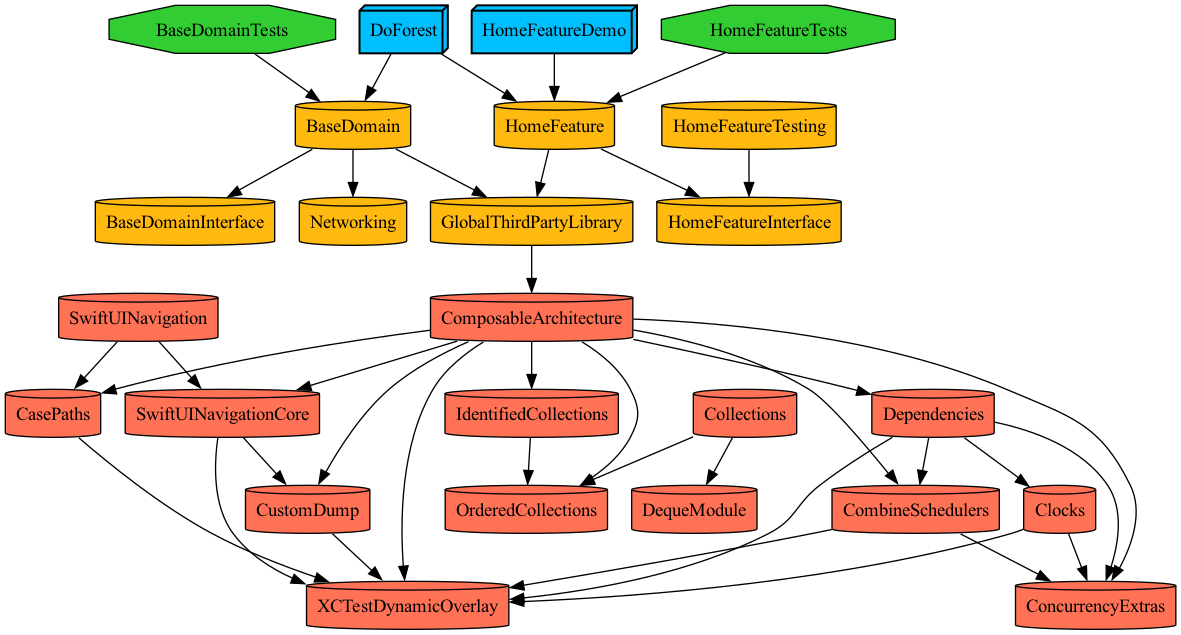
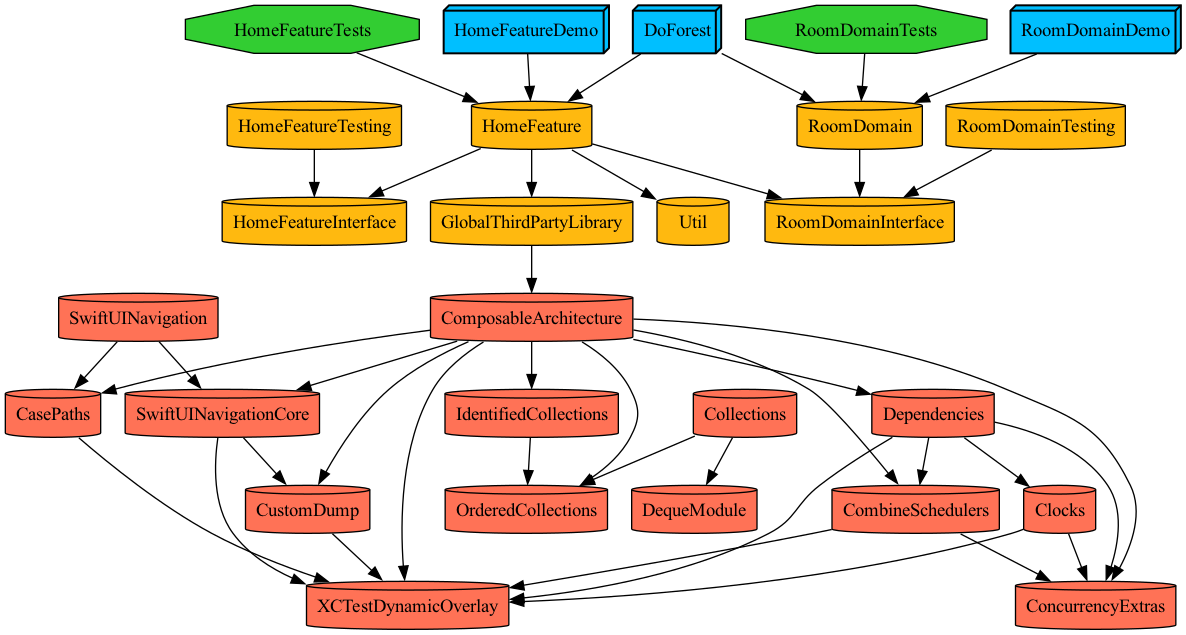
[#1] 누락된 파일 추가

diff --git a/Projects/Feature/HomeFeature/Sources/HomeView.swift b/Projects/Feature/HomeFeature/Sources/HomeView.swift
@@ -8,6 +8,9 @@
 
 import SwiftUI
 import ComposableArchitecture
+import RoomDomainInterface
+import Util
+import YDS_SwiftUI
 
 public struct HomeView: View {
     public init(store: StoreOf<Home>) {
@@ -16,13 +19,33 @@ public struct HomeView: View {
     public let store: StoreOf<Home>
     public var body: some View {
         WithViewStore(self.store, observe: { $0 }) { viewStore in
-            VStack {
-                Text("count : \(viewStore.count)")
-                Button(action: {
-                    viewStore.send(.buttonTapped)
-                }, label: {
-                    Text("Button")
-                })
+            VStack(alignment: .leading, spacing: 20) {
+                ForEach(viewStore.rooms, id: \.id) { room in
+                    HStack(spacing: 16) {
+                        Text(room.icon)
+                            .font(.largeTitle)
+                            .frame(minWidth: 64, minHeight: 64)
+                            .background {
+                                Color.white
+                                    .clipShape(Circle())
+                            }
+                        VStack(alignment: .leading, spacing: 8) {
+                            Text(room.title)
+                                .font(YDSFont.title3)
+                            Text(room.subTitle)
+                                .font(YDSFont.body2)
+                        }
+                        Spacer()
+                    }
+                    .foregroundStyle(Color.white)
+                    .padding(26)
+                    .frame(maxWidth: .infinity, minHeight: 107)
+                    .background {
+                        RoundedRectangle(cornerRadius: 30, style: .continuous)
+                            .fill(Color(hex: room.backgroundHexColor))
+                    }
+                    .padding(.horizontal)
+                }
             }
         }
     }
@@ -41,10 +64,8 @@ struct Home_Previews: PreviewProvider {
 public struct Home: Reducer {
     public init() {}
     public struct State: Equatable {
-        public init(count: Int = 0) {
-            self.count = count
-        }
-        var count = 0
+        public init() {}
+        var rooms: [RoomModel] = RoomModel.mockData
     }
     public enum Action: Equatable {
         case buttonTapped
@@ -53,7 +74,6 @@ public struct Home: Reducer {
     public func reduce(into state: inout State, action: Action) -> Effect<Action> {
         switch action {
         case .buttonTapped:
-            state.count += 1
             return .none
         }
     }

diff --git a/Projects/Domain/RoomDomain/Interface/RoomModel.swift b/Projects/Domain/RoomDomain/Interface/RoomModel.swift
@@ -1,0 +1,49 @@
+import Foundation
+
+public struct RoomModel: Equatable {
+    public let id: UUID
+    public let title: String
+    public let subTitle: String
+    public let icon: String
+    public let backgroundHexColor: UInt
+}
+
+public extension RoomModel {
+    static let mockData: [Self] = [
+        .init(
+            id: UUID(),
+            title: "망한 잔디밭 살리기",
+            subTitle: "1일 1잔디심기 프로젝트.\n삭막한 잔디밭 살려.",
+            icon: "🌿",
+            backgroundHexColor: 0x72C381
+        ),
+        .init(
+            id: UUID(),
+            title: "모수의 잔디밭",
+            subTitle: "짱아요에서 살아남기... 그를 이겨라",
+            icon: "❤🔥",
+            backgroundHexColor: 0xE27488
+        ),
+        .init(
+            id: UUID(),
+            title: "테드의 험난한 대학생활",
+            subTitle: "잔디를 살려보자.",
+            icon: "📚",
+            backgroundHexColor: 0x747FE2
+        ),
+        .init(
+            id: UUID(),
+            title: "오전 잔디심기 인증",
+            subTitle: "기상 시간 인증 스터디",
+            icon: "☀",
+            backgroundHexColor: 0xEEA418
+        ),
+        .init(
+            id: UUID(),
+            title: "알고리즘 공부하자",
+            subTitle: "알고리즘으로만 잔디 채워보기",
+            icon: "🗂",
+            backgroundHexColor: 0xA574E2
+        )
+    ]
+}

diff --git a/Projects/Feature/HomeFeature/Project.swift b/Projects/Feature/HomeFeature/Project.swift
@@ -5,10 +5,14 @@ import ProjectDescriptionHelpers
 let project = Project.module(
     name: ModulePaths.Feature.HomeFeature.rawValue,
     targets: [
-        .interface(module: .feature(.HomeFeature)),
+        .interface(module: .feature(.HomeFeature), dependencies: [
+        ]),
         .implements(module: .feature(.HomeFeature), dependencies: [
             .feature(target: .HomeFeature, type: .interface),
-            .shared(target: .GlobalThirdPartyLibrary)
+            .shared(target: .GlobalThirdPartyLibrary),
+            .domain(target: .RoomDomain, type: .interface),
+            .shared(target: .Util),
+            .userInterface(target: .DesignSystem)
         ]),
         .testing(module: .feature(.HomeFeature), dependencies: [
             .feature(target: .HomeFeature, type: .interface)

diff --git a/Projects/Domain/RoomDomain/Project.swift b/Projects/Domain/RoomDomain/Project.swift
@@ -1,0 +1,22 @@
+import DependencyPlugin
+import ProjectDescription
+import ProjectDescriptionHelpers
+
+let project = Project.module(
+    name: ModulePaths.Domain.RoomDomain.rawValue,
+    targets: [
+        .interface(module: .domain(.RoomDomain)),
+        .implements(module: .domain(.RoomDomain), dependencies: [
+            .domain(target: .RoomDomain, type: .interface)
+        ]),
+        .testing(module: .domain(.RoomDomain), dependencies: [
+            .domain(target: .RoomDomain, type: .interface)
+        ]),
+        .tests(module: .domain(.RoomDomain), dependencies: [
+            .domain(target: .RoomDomain)
+        ]),
+        .demo(module: .domain(.RoomDomain), dependencies: [
+            .domain(target: .RoomDomain)
+        ])
+    ]
+)

diff --git a/Projects/Domain/RoomDomain/Demo/Sources/AppDelegate.swift b/Projects/Domain/RoomDomain/Demo/Sources/AppDelegate.swift
@@ -1,0 +1,19 @@
+import UIKit
+
+@main
+final class AppDelegate: UIResponder, UIApplicationDelegate {
+    var window: UIWindow?
+
+    func application(
+        _ application: UIApplication,
+        didFinishLaunchingWithOptions launchOptions: [UIApplication.LaunchOptionsKey: Any]? = nil
+    ) -> Bool {
+        window = UIWindow(frame: UIScreen.main.bounds)
+        let viewController = UIViewController()
+        viewController.view.backgroundColor = .yellow
+        window?.rootViewController = viewController
+        window?.makeKeyAndVisible()
+
+        return true
+    }
+}

diff --git a/Tuist/Templates/Demo/Demo.swift b/Tuist/Templates/Demo/Demo.swift
@@ -11,12 +11,8 @@ private let template = Template(
     ],
     items: [
         .file(
-            path: "Projects/\(layerAttribute)/\(nameAttribute)/Demo/Sources/AppDelegate.swift",
+            path: "Projects/\(layerAttribute)/\(nameAttribute)/Demo/Sources/\(nameAttribute)Demo.swift",
             templatePath: "DemoSources.stencil"
-        ),
-        .file(
-            path: "Projects/\(layerAttribute)/\(nameAttribute)/Demo/Resources/LaunchScreen.storyboard",
-            templatePath: "DemoResources.stencil"
         )
     ]
 )

diff --git a/Projects/UserInterface/DesignSystem/Project.swift b/Projects/UserInterface/DesignSystem/Project.swift
@@ -5,7 +5,9 @@ import ProjectDescriptionHelpers
 let project = Project.module(
     name: ModulePaths.UserInterface.DesignSystem.rawValue,
     targets: [
-        .implements(module: .userInterface(.DesignSystem), product: .framework),
+        .implements(module: .userInterface(.DesignSystem), product: .framework, dependencies: [
+            .SPM.YDS
+        ]),
         .demo(module: .userInterface(.DesignSystem), dependencies: [
             .userInterface(target: .DesignSystem)
         ])

diff --git a/Projects/Shared/Util/Sources/Color+.swift b/Projects/Shared/Util/Sources/Color+.swift
@@ -6,4 +6,16 @@
 //  Copyright © 2023 com.yourssu. All rights reserved.
 //
 
-import Foundation
+import SwiftUI
+
+public extension Color {
+    init(hex: UInt, alpha: Double = 1) {
+        self.init(
+            .sRGB,
+            red: Double((hex >> 16) & 0xff) / 255,
+            green: Double((hex >> 08) & 0xff) / 255,
+            blue: Double((hex >> 00) & 0xff) / 255,
+            opacity: alpha
+        )
+    }
+}

diff --git a/Plugin/DependencyPlugin/ProjectDescriptionHelpers/ModulePaths.swift b/Plugin/DependencyPlugin/ProjectDescriptionHelpers/ModulePaths.swift
@@ -30,7 +30,7 @@ public extension ModulePaths {
 
 public extension ModulePaths {
     enum Domain: String, MicroTargetPathConvertable {
-        case BaseDomain
+        case RoomDomain
     }
 }
 
@@ -42,6 +42,7 @@ public extension ModulePaths {
 
 public extension ModulePaths {
     enum Shared: String, MicroTargetPathConvertable {
+        case Util
         case GlobalThirdPartyLibrary
     }
 }

diff --git a/Tuist/Dependencies.swift b/Tuist/Dependencies.swift
@@ -5,6 +5,7 @@ let dependencies = Dependencies(
     carthage: nil,
     swiftPackageManager: SwiftPackageManagerDependencies(
         [
+            .remote(url: "https://github.com/yourssu/YDS-iOS.git", requirement: .exact("3.0.0")),
             .remote(url: "https://github.com/pointfreeco/swift-composable-architecture.git", requirement: .exact("1.2.0")),
     
         ],

diff --git a/Plugin/DependencyPlugin/ProjectDescriptionHelpers/Dependency+SPM.swift b/Plugin/DependencyPlugin/ProjectDescriptionHelpers/Dependency+SPM.swift
@@ -5,6 +5,7 @@ public extension TargetDependency {
 }
 
 public extension TargetDependency.SPM {
+    static let YDS = TargetDependency.external(name: "YDS-SwiftUI")
     static let TCA = TargetDependency.external(name: "ComposableArchitecture")
 }
 

diff --git a/Projects/Shared/Util/Project.swift b/Projects/Shared/Util/Project.swift
@@ -1,0 +1,10 @@
+import DependencyPlugin
+import ProjectDescription
+import ProjectDescriptionHelpers
+
+let project = Project.module(
+    name: ModulePaths.Shared.Util.rawValue,
+    targets: [
+        .implements(module: .shared(.Util))
+    ]
+)
